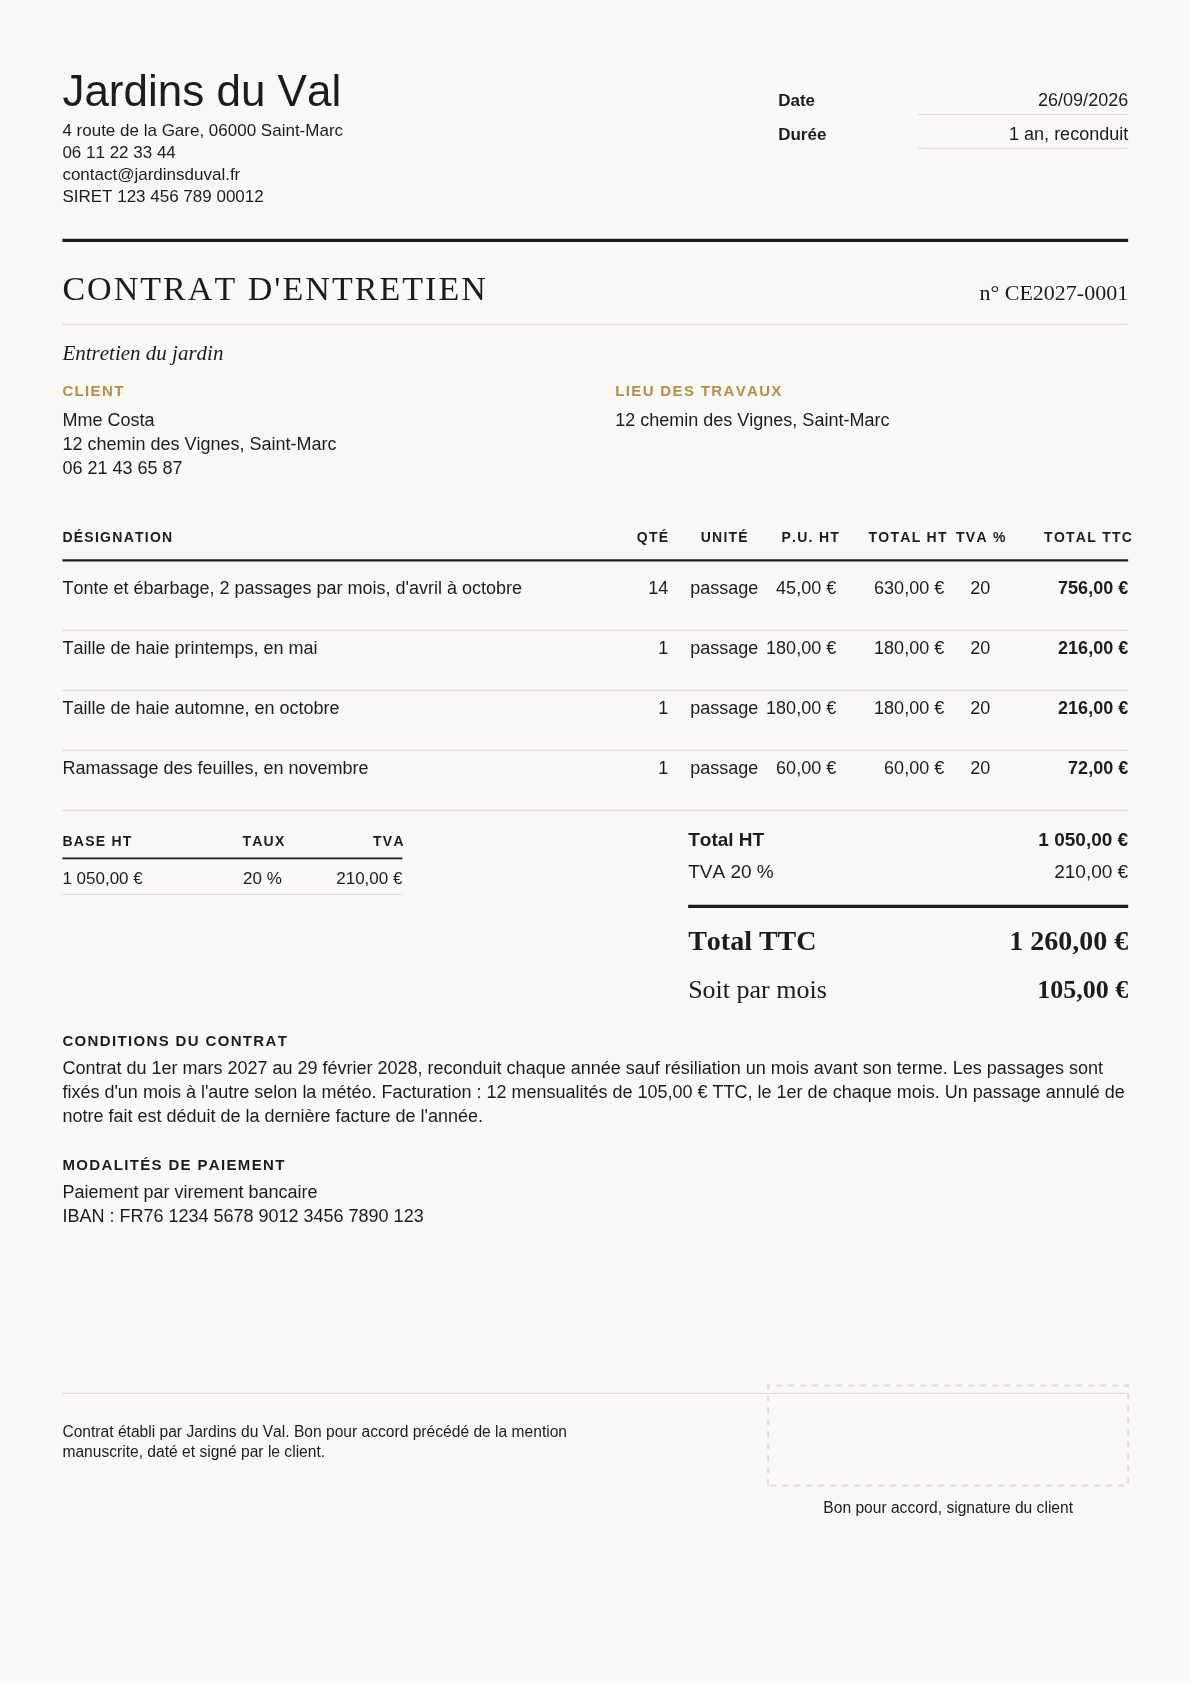
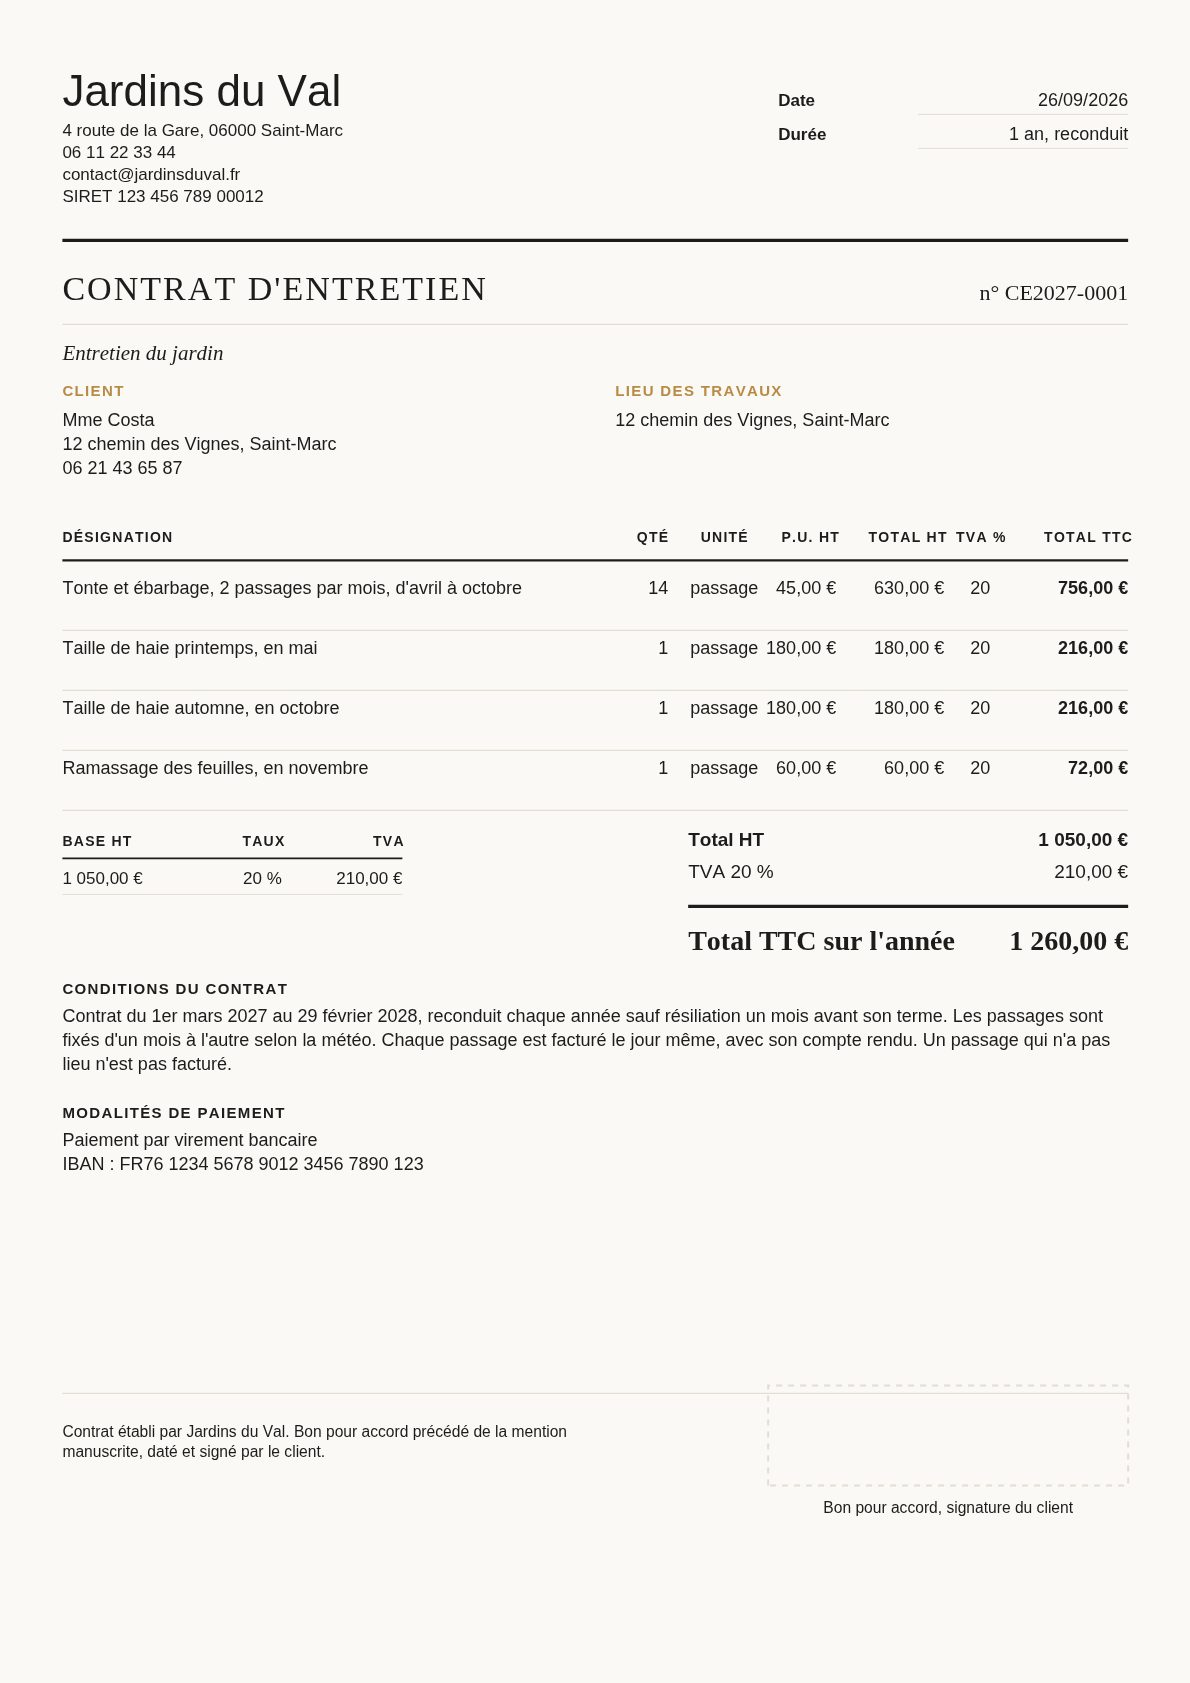
Facturer après chaque passage, et pouvoir l'envoyer avec le compte rendu
Il a choisi la B : une facture par passage. Sa question suivante, si
l'envoi peut s'automatiser, reçoit un interrupteur éteint d'office : la
facture part avec le compte rendu du passage. Le déclencheur n'est jamais
une date, qui facturerait un passage annulé par la pluie ; le compte rendu
reste le geste du patron exigé avant de facturer. Le PDF du contrat perd
sa mensualité et le dit dans ses conditions.

Claude-Session: https://claude.ai/code/session_01EJSQYfzYU2MG3BFanuJqkE

Changed region(s): [[0.0311, 0.5561, 0.9328, 0.7415]]

diff --git a/appli/contrat-d-entretien.html b/appli/contrat-d-entretien.html
@@ -167,6 +167,8 @@
   .interrupteur[aria-checked="true"]{background:var(--plein)}
   .interrupteur[aria-checked="true"]::after{left:23px}
 
+  .auto{margin-top:12px}
+  .auto-dit{margin:2px 0 0;font-size:13.5px;color:var(--inkSoft)}
   .facturation{display:flex;flex-direction:column;gap:8px}
   .facturation button{text-align:left;border:0;cursor:pointer;border-radius:10px;padding:12px 14px;
                       background:var(--card);box-shadow:inset 0 0 0 1px var(--line)}
@@ -321,14 +323,25 @@
       <div class="bloc">
         <p class="intitule">Facturation</p>
         <div class="facturation" id="facturation">
-          <button type="button" data-fact="mois" aria-pressed="true">
+          <button type="button" data-fact="mois" aria-pressed="false">
             <span class="t"><span class="lettre">A</span>Chaque mois, le même montant</span>
             <span class="c" id="conseq-mois"></span>
           </button>
-          <button type="button" data-fact="passage" aria-pressed="false">
+          <button type="button" data-fact="passage" aria-pressed="true">
             <span class="t"><span class="lettre">B</span>Après chaque passage</span>
             <span class="c" id="conseq-passage"></span>
           </button>
+        </div>
+        <!-- L'automatisme ne part JAMAIS d'une date : seulement du compte rendu,
+             qui est lui-même son geste (`CLAUDE.md` §4, « facturer sans un
+             geste du patron »). Une facture datée partirait pour un passage
+             que la pluie a annulé. -->
+        <div id="auto" class="auto">
+          <div class="ligne-duree">
+            <span>Envoyer la facture avec le compte rendu</span>
+            <button type="button" class="interrupteur" id="avec-compte-rendu" role="switch" aria-checked="false" aria-label="Envoyer la facture avec le compte rendu"></button>
+          </div>
+          <p class="auto-dit" id="auto-dit"></p>
         </div>
       </div>
 
@@ -391,12 +404,13 @@
 </div>
 
 <div class="notes">
-  <h2>La seule chose à trancher : la facturation</h2>
+  <h2>La facturation : B, tranchée le 26 septembre</h2>
+  <p>Une facture après chaque passage. <b>Et vous pouvez l'automatiser</b> : l'interrupteur « Envoyer la facture avec le compte rendu », sous la B.</p>
   <ul>
-    <li><b>A, chaque mois le même montant.</b> Le client paie pareil en janvier qu'en juin, et vous encaissez l'hiver, quand il n'y a presque rien à tondre. C'est la forme habituelle d'un contrat d'entretien chez un particulier. <b>Ce qu'elle coûte :</b> on facture avant d'avoir fait. Un passage annulé se rend sur la dernière facture de l'année.</li>
-    <li><b>B, après chaque passage.</b> La facture colle à ce qui a été fait, rien à régulariser. <b>Ce qu'elle coûte :</b> des montants qui changent chaque mois, rien en hiver, et une facture de plus à envoyer après chaque tonte.</li>
+    <li><b>Éteint</b> : vous envoyez la facture vous-même, après le passage.</li>
+    <li><b>Allumé</b> : quand le compte rendu du passage part chez le client, la facture part avec. Un seul geste au lieu de deux.</li>
   </ul>
-  <p><b>Ce que je défends : la A.</b> Elle lisse votre trésorerie sur l'année, et c'est ce qu'un client sous contrat attend.</p>
+  <p><b>Ce qui ne s'automatise pas, et c'est voulu :</b> une facture qui partirait toute seule à une date. Un passage annulé par la pluie serait facturé quand même. Le déclencheur reste le compte rendu, c'est-à-dire un passage réellement fait.</p>
 
   <h2>Ce que je propose, sans vous le demander</h2>
   <ul>
@@ -441,7 +455,8 @@ const DEPART = () => ({
     { id: 3, famille: "Tailles", libelle: "Taille de haie automne", mois: [9], fois: 1, prix: 18000 },
     { id: 4, famille: "Propreté", libelle: "Ramassage des feuilles", mois: [10], fois: 1, prix: 6000 },
   ],
-  facturation: "mois",
+  facturation: "passage",
+  avecCompteRendu: false,
   reconduit: true,
   etat: "aucun",
   poses: {},
@@ -555,6 +570,11 @@ function dessinerTotaux() {
     : min === max ? `${montants.length} factures de ${euros(min)} HT, le jour du compte rendu.`
     : `${montants.length} factures, de ${euros(min)} à ${euros(max)} HT, le jour du compte rendu.`;
 
+  document.getElementById("auto").hidden = c.facturation !== "passage";
+  document.getElementById("avec-compte-rendu").setAttribute("aria-checked", String(c.avecCompteRendu));
+  document.getElementById("auto-dit").textContent = c.avecCompteRendu
+    ? "Un seul geste : le compte rendu part, la facture part avec."
+    : "Vous l'envoyez vous-même après chaque passage.";
   document.querySelectorAll("#facturation button").forEach((b) =>
     b.setAttribute("aria-pressed", String(b.dataset.fact === c.facturation)));
 
@@ -700,6 +720,8 @@ document.addEventListener("click", (e) => {
 
   const fact = e.target.closest("[data-fact]");
   if (fact) { c.facturation = fact.dataset.fact; dessinerTotaux(); return; }
+
+  if (e.target.closest("#avec-compte-rendu")) { c.avecCompteRendu = !c.avecCompteRendu; dessinerTotaux(); return; }
 
   if (e.target.closest("#reconduit")) {
     c.reconduit = !c.reconduit;

diff --git a/TODO.md b/TODO.md
@@ -1,11 +1,15 @@
 # Prochaines tâches
 
-## ⏳ UNE PLANCHE À REGARDER : LE CONTRAT D'ENTRETIEN (26 septembre 2026)
+## ⏳ UNE PLANCHE À REGARDER : LE CONTRAT D'ENTRETIEN, B RETENUE (26 septembre 2026)
 
 `appli/contrat-d-entretien.html`, planche 128. Sa demande après la comparaison
-avec Extrabat. **Une seule question : la facturation**, A (chaque mois le même
-montant, l'arrondi sur la dernière) ou B (après chaque passage) ; je défends la
-A. Proposé sans question : pas de date fixe, les passages du mois tombent le
+avec Extrabat. **Facturation tranchée le 26 septembre : B, une facture après
+chaque passage** (j'avais défendu la A). Et sa question : *« il faut qu'il
+puisse l'automatiser s'il veut, non ? »* Oui, par un interrupteur du contrat,
+éteint d'office : la facture part AVEC le compte rendu du passage. Jamais à une
+date, qui facturerait un passage annulé par la pluie ; le compte rendu reste le
+geste du patron que `CLAUDE.md` §4 exige avant de facturer. Reste à regarder la
+planche entière. Proposé sans question : pas de date fixe, les passages du mois tombent le
 1er dans « Sans date » ; le contrat part chez le client comme un devis ; les
 prestations viennent de `MODELE_FOURNI`. **Rien n'est codé.** Une fois codé :
 niveau 3 (argent, migration). Question ouverte à lui poser ensuite :
